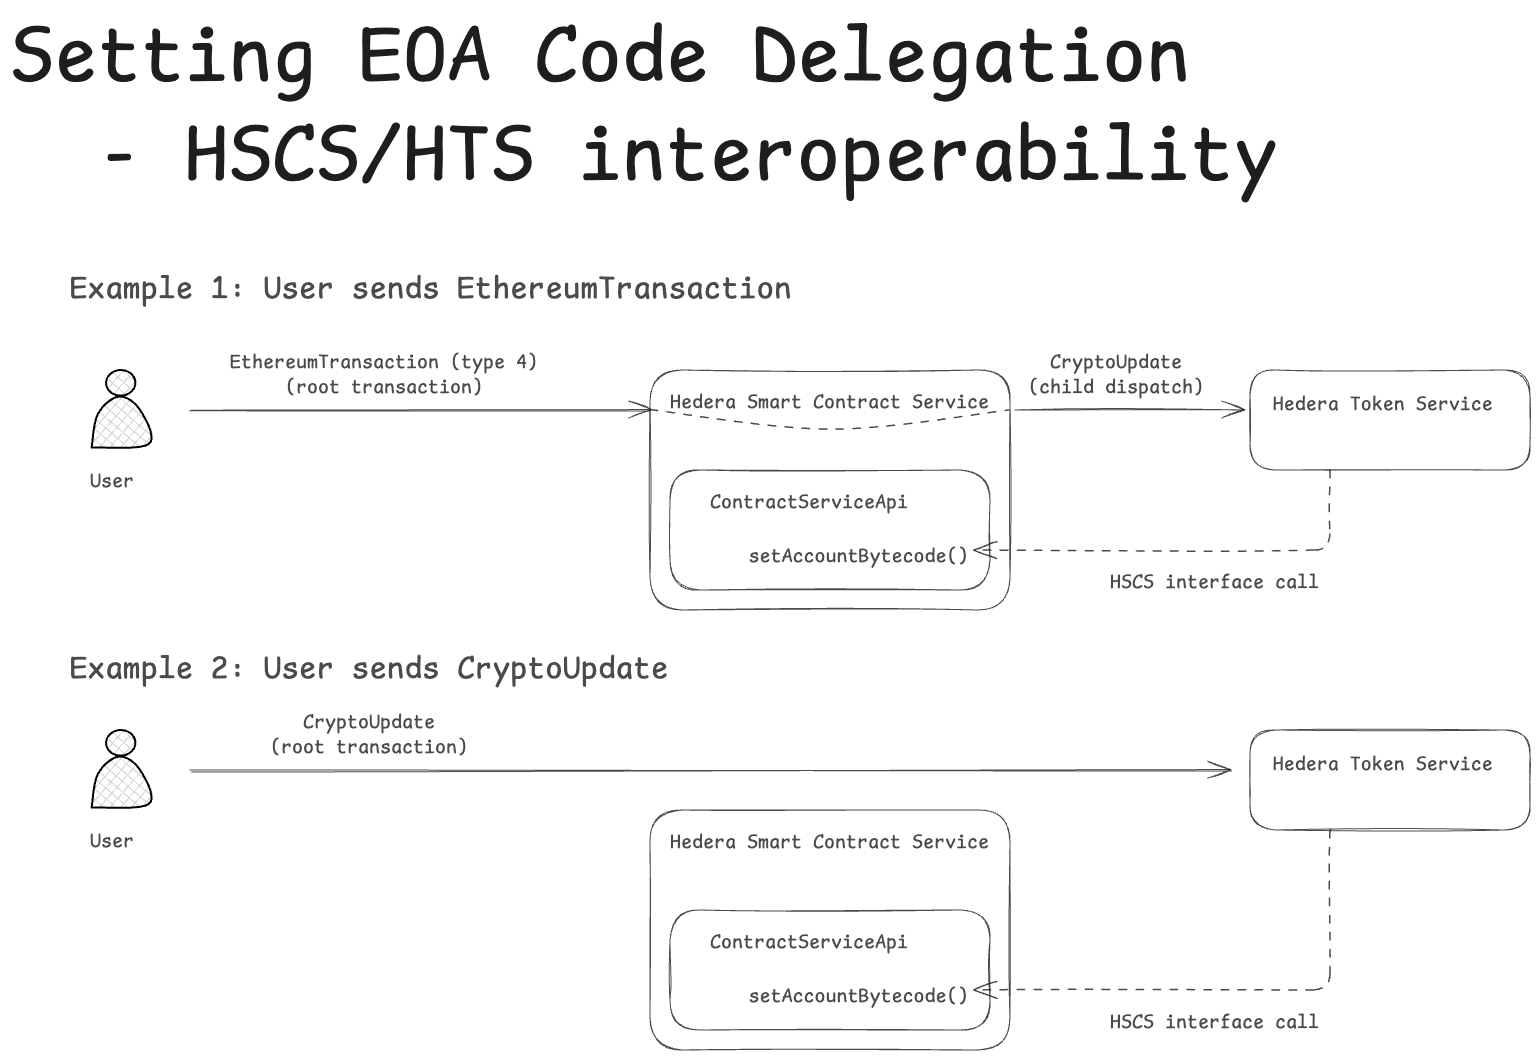
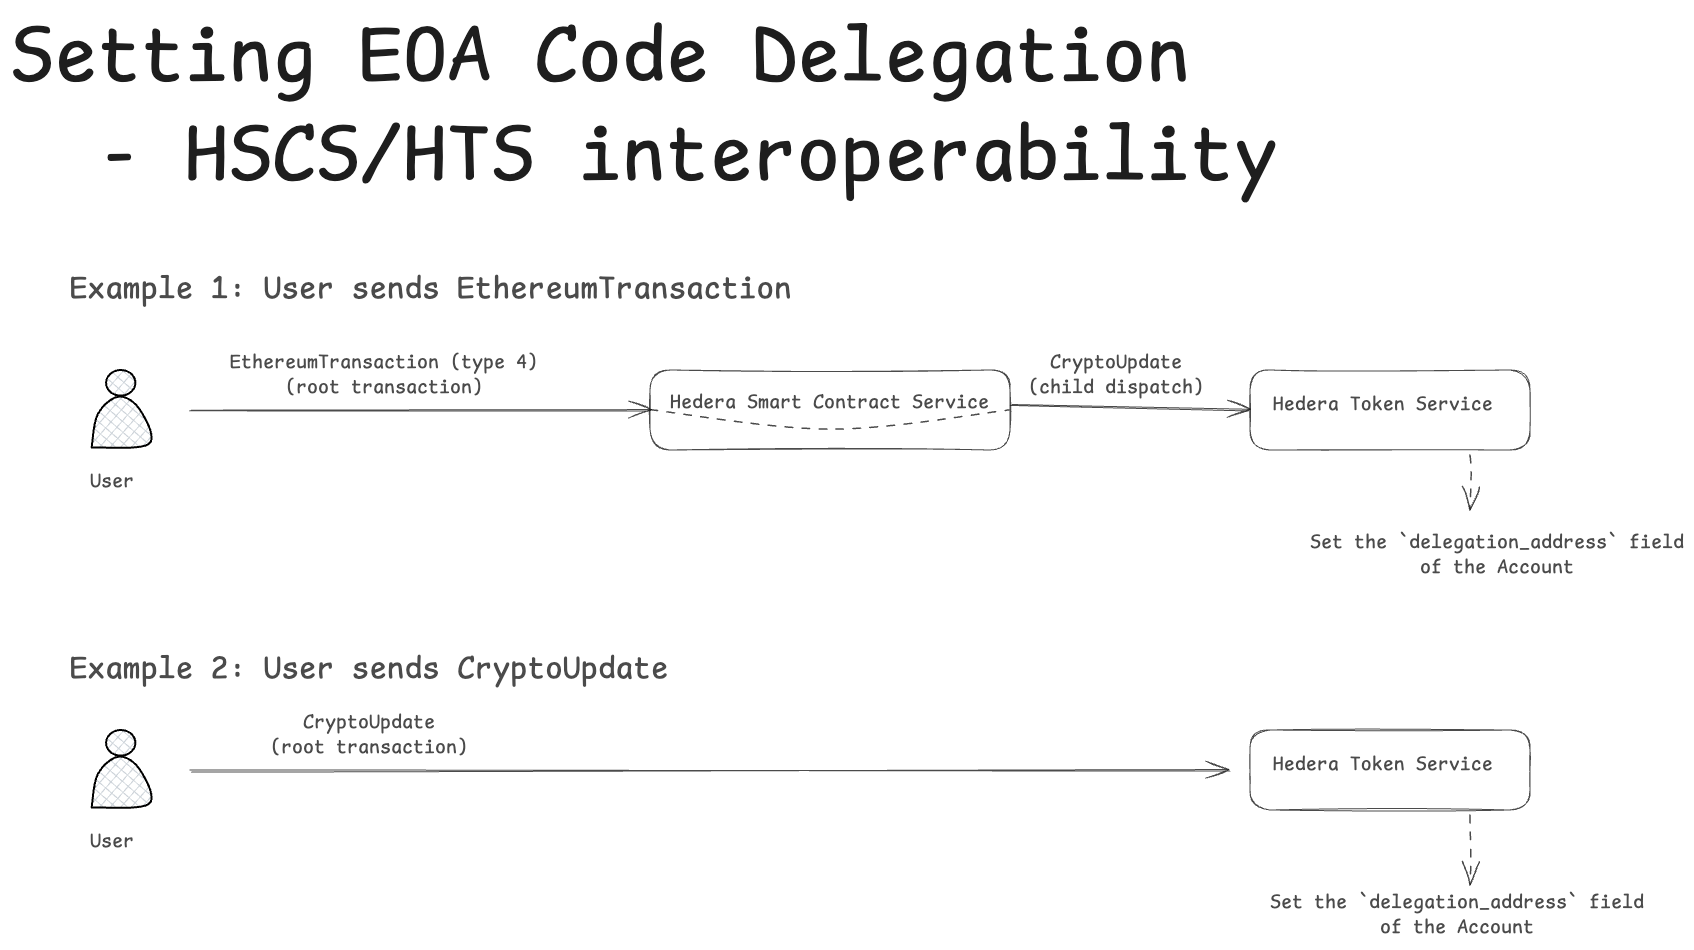
Update HIP-1340

diff --git a/HIP/hip-1340.md b/HIP/hip-1340.md
@@ -54,21 +54,39 @@ both have been described in detail in dedicated sections below.
 
 ### Configuring Code Delegation For an Account
 
-This section describes how Code Delegation data for a given EOA is stored and what are the means of updating it.
+This section describes how Code Delegation data for the given EOA is stored and what are the means of updating it.
 
 #### Storing The Code Delegation Data
 
-We propose to adopt the following storage format, which has been originally described in EIP-7702. 
-
-Delegation information will be represented in a form of a Delegation Indicator - a fixed prefix of `0xef0100` followed by 20-byte EVM address of the delegation target.
+The storage format originally defined in EIP-7702 consists of a Delegation Indicator - a fixed prefix of `0xef0100` followed by 20-byte EVM address of the delegation target.
 
 ```
 delegation_indicator = 0xef0100 || 20-byte address
 ```
 
-The Delegation Indicator will be stored as the code of an EOA using the facilities that currently exist for storing the code (runtime bytecode) of contract accounts - i.e. the `ContractStateStore` interface. To be able to utilize the interface, EOA's AccountID will be directly converted to a corresponding ContractID.
+Delegation Indicators are stored in the `code` field of an Ethereum account, the same field that is used for contract bytecode storage.
 
-The main revision is that the code of an EOA will become mutable. It can be either empty or contain a Delegation Indicator. No other code is allowed.
+We propose an alternative storage mechanism, which should be a better fit for our entity model.
+
+The delegation target address will be stored on the Account entity in a new, optional field. We propose to extend the Account protobuf message in the following way:
+
+```
+message Account {
+  
+  ...
+
+  /**
+  * The delegated contract address for the account.
+  * If this field is set, a call to the account's address within a smart contract will
+  * result in the code of the authorized contract being executed.
+  */
+  bytes delegation_address = 39;
+}
+```
+
+For EVM compatibility, Hedera Smart Contract Service will assamble the correct Delegation Indicator (i.e. prefix the `delegation_address` with `0xef0100`) for any bytecode queries of an EOA.
+
+For external observers, for example those using ContractGetBytecode queries, the code of an EOA will no longer be fixed to the account facade proxy code (the impact on the facade proxy mechanism has been described in more detail below). It will be either empty (no delegation) or an EVM-compatible Delegation Indicator.
 
 As a result, all code-related queries previously available for contract accounts should now also function for EOAs, which include:
 - `ContractGetBytecodeQuery`
@@ -76,7 +94,7 @@ As a result, all code-related queries previously available for contract accounts
 
 Since the code of a regular contract cannot begin with `0xef` (as per EIP-3541), only the code of an EOA can contain a Delegation Indicator.
 
-The delegation target address is an arbitrary 20-byte address. No additional validation is done at the time of storing the Delegation Indicator (e.g. whether it points to a valid contract, etc), the only exception being `0x0000000000000000000000000000000000000000` - any attempt to store it will result in clearing the Delegation Indicator instead (i.e. setting the bytecode to an empty byte array).
+The delegation target address is an arbitrary 20-byte address. No additional validation is done at the time of storing it (e.g. whether it points to a valid contract, etc), the only exception being `0x0000000000000000000000000000000000000000` - any attempt to store it will result in clearing of the delegation address.
 
 #### Updating Code Delegation of an EOA
 
@@ -110,31 +128,7 @@ message CryptoUpdateTransactionBody {
 }
 ```
 
-If set, the value of the field will be checked to ensure it's a valid 20-byte EVM address. It will then be prefixed with the Delegation Indicator prefix, and stored as the Delegation Indicator for the given account. No other validation will be performed at the time of setting the Delegation Indicator (e.g. no validation that the target address exists, isn't a precompile, etc).
-
-Since Delegation Indicators are persisted as the code (runtime bytecode) of EOAs, in addition to these protobuf updates, functionality will be added in the `TokenService` to call the `ContractService` to persist data into `ContractStateStore`.
-
-This will be accomplished via the creation of a new `ContractServiceApi` whose interface will be defined as follows:
-
-```
-/**
- * Defines mutations that can't be expressed as a {@link com.hedera.hapi.node.transaction.TransactionBody} dispatch.
- *
- * <p>Only exported to the token service at this time, as it is the only service that currently needs such a thing.
- */
-public interface ContractServiceApi {
-    /**
-     * Sets the given address as a delegation target of the specified account.
-     * The address will be prefixed with `0xef0100` and stored as runtime bytecode of the given account.
-     * Setting the target address to `0x0000000000000000000000000000000000000000` results in clearing
-     * the Delegation Indicator of the given account (i.e. setting its runtime bytecode to an empty array).
-     *
-     * @param accountID         id of the account to set the delegation for
-     * @param delegationTarget  the delegation target address
-     */
-    void setAccountDelegationTarget(@NonNull AccountID accountID, @NonNull Address delegationTarget);
-}
-```
+If set, the value of the field will be checked to ensure it's a valid 20-byte EVM address and stored in the Account entity. No other validation will be performed at the time of setting it (e.g. no validation that the target address exists, isn't a precompile, etc).
 
 ##### Updating Code Delegation Via a New EVM transaction Type 4, As Defined in EIP-7702
 
@@ -155,7 +149,7 @@ The validity of each item will be checked closely following EIP-7702's specifica
 
 If more than one valid authorization entry for the same EOA exists on the list, then only the last one will be used. Any authorizations that come before it will be ignored.
 
-Each successfully processed authorization item will result in a child `CryptoCreate` or `CryptoUpdate` dispatch (depending on whether the affected EOA already exists or not), carrying the intended Delegation Indicator change. No child dispatch will be created for duplicate authorizations that were skipped.
+Each successfully processed authorization item will result in a child `CryptoCreate` or `CryptoUpdate` dispatch (depending on whether the affected EOA already exists or not), carrying the intended Code Delegation change. No child dispatch will be created for duplicate authorizations that were skipped.
 
 In addition to the gas cost for each authorization list item (any item valid or not, also including any ignored/skipped entries) defined in EIP-7702 - 12500 or 25000 gas depending on whether the EOA already exists - Hedera will charge hollow account creation cost of 587,000 gas for any newly created accounts. The maximum number of created hollow accounts is limited by transaction gas limit as well as the ops duration throttle.
 
@@ -172,7 +166,7 @@ The diagram below illustratest the interoperability between HSCS and HTS for two
 #### Updating EOA's Code Delegation - Summary of Record Stream Changes
 
 - `CryptoCreate` and `CryptoUpdate` transaction bodies will be extended with a new `delegation_address` field
-- state_changes will contain a `STATE_ID_BYTECODE` state change for each updated Delegation Indicator
+- `Account` entity will be extended with a new `delegation_address` field
 
 ### Executing The Code Delegation Logic When an EVM Call Is Processed
 
@@ -180,9 +174,15 @@ The second aspect of EOA Code Delegation is an update to the EVM call processing
 
 When a call is made to an account - either a top-level EVM transaction call (i.e. when `transaction.to == EOA address`) or an inner call (e.g. `address(eoa).call(..)` call in a Smart Contract) - HSCS will:
 
-1. Fetch the bytecode of the target account of the call
-2. Recognize the Delegation Indicator by inspecting the prefix of the code for `0xef0100`
-3. Resolve the contract account that is the target of the delegation and run its EVM code in the context of the original EOA, subject to the limitations described below
+1. Resolve the target Account of the call
+2. Read `delegation_address`
+3. If `delegation_address` is non-empty: resolve the contract account that is the target of the delegation and run its EVM code in the context of the original EOA, subject to the limitations described below
+
+Throughout the EVM execution any queries for the code of an account (e.g. when using the `EXTCODECOPY` opcode) will be handled as follows:
+
+1. Resolve the target entity
+2. If it's a Contract: use `ContractStateStore` to fetch the bytecode
+3. If it's an Account: prefix the `delegation_address` with `0xef0100` to form an EVM-compatible Delegation Indicator and return it as the bytecode. If `delegation_address` is unset, then return an empty bytecode.
 
 One notable difference is that EVM code execution might result in EVM storage updates on the original EOA account as well as emit EVM events.
 As a result, all queries related to EVM storage and logs previously available for contract accounts should now also function for EOAs, which include:
@@ -204,10 +204,10 @@ The following checks will be applied before executing the EVM code of the target
 - targetting an existing EOA, which itself contains code delegation results in a no-op code execution
 - targetting an existing contract with non-empty code results in the execution of its EVM code, with the exception of calls matching one of Hedera Account Service proxy methods (described in detail below)
 
-In case a Delegation Indicator points to another delegation, creating a potential chain or loop of delegations, only the first one will be resolved and the code of the target address will be interpreted literally, even if it's also a Delegation Indicator.
+In case Code Delegation points to another delegation, creating a potential chain or loop of delegations, only the first one will be resolved and the code of the target address will be interpreted literally, even if it's a Delegation Indicator.
 
 The updated processing logic applies to the new EVM transaction type (4), any of the previous EVM transaction types,
-native ContractCallTransaction and native ContractCreateTransaction.
+native `ContractCallTransaction` and native `ContractCreateTransaction`.
 
 ### Example User Flows
 
@@ -217,7 +217,7 @@ Ethereum-compatible example utilizing an EVM type 4 transaction:
 
 ![Example User Flow - EVM Type 4](../assets/hip-1340/example_user_flow_type_4.png)
 
-Native example utilizing CryptoUpdateTransaction and ContractCallTransaction:
+Native example utilizing `CryptoUpdateTransaction` and `ContractCallTransaction`:
 
 ![Example User Flow - Native](../assets/hip-1340/example_user_flow_native.png)
 
@@ -226,19 +226,20 @@ Native example utilizing CryptoUpdateTransaction and ContractCallTransaction:
 For quick reference, this sections summarizes all proposed changes on a high-level.
 
 State Changes:
-- EOAs will store their Delegation Indicators as their bytecode (as per EIP-7702)
-- EOA's bytecode can be non-empty and becomes mutable
+- EOAs will store their Code Delegations in a new field on the Account entity
+- For external observer: the bytecode of an EOA will be empty or will contain a mutable Delegation Indicator
 - EOA's storage slots can be non-empty and become mutable
 
 Transaction Format Changes:
 - `CryptoCreate` and `CryptoUpdate` will be extended with a new `delegation_address` field
 - `EthereumTransaction` will be extended with a new EVM transaction type 4
-- Some outputs of the transaction previously reserved for contracts will also support EOAs (bytecode change, storage slots change, EVM logs)
+- Some outputs of the transaction previously reserved for contracts will also support EOAs (storage slots changes, EVM logs)
 
 Execution Logic Changes:
+- HSCS will recognize `delegation_address` of an Account and emulate an EVM-compatible Delegation Indicators
 - Code Delegation Indicators will be recognized while processing EVM calls and processed accordingly
 - EVM type 4 transaction will be processed as specified
-- `CryptoCreate` / `CryptoUpdate` will be updated to handle setting/updating Delegation Indicators
+- `CryptoCreate` / `CryptoUpdate` will be updated to handle setting/updating `delegation_address` of an Account
 
 ### Impact on Proxy/Facade Calls
 
@@ -303,7 +304,7 @@ Hooks have a dedicated storage namespace, so the fact that Code Delegation might
 Mirror Node will be impacted in the following ways:
 
 - `CryptoCreate` / `CryptoUpdate` transaction body will be updated
-- EOA will store mutable bytecode. Mirror Node will need to extract and process EOA code changes from "state changes"
+- A new field will be added to the `Account` entity
 - EOA storage slots will be mutable
 - The code (as returned by ContractGetBytecode) of HTS tokens and HSS schedule addresses will be updated to a Delegation Indicator targetting a corresponding System Contract address
 - all related APIs on the Mirror Node, including `/api/v1/contracts/*` endpoints (like `/api/v1/contracts/call`, `/api/v1/contracts/results/logs`, etc) should work for both contracts and EOA's
